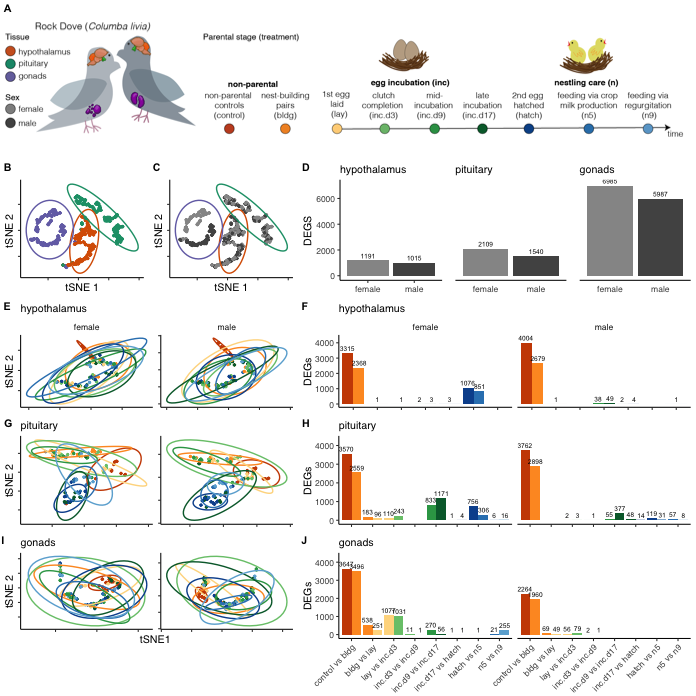
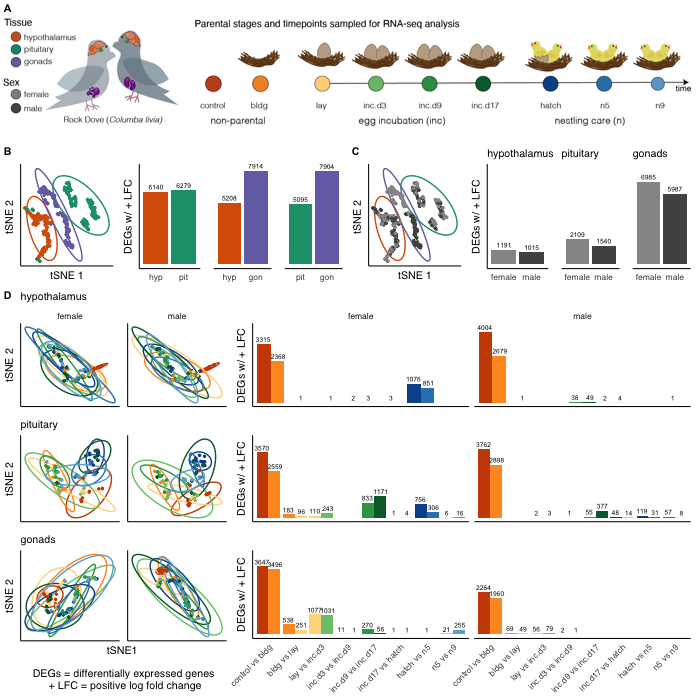
better fig 1

diff --git a/analysis/figure-1.md b/analysis/figure-1.md
@@ -501,8 +501,6 @@ DEGs
     allDEG$comparison <- factor(allDEG$comparison , levels = comparisonlevels)
     allDEG$direction <- factor(allDEG$direction, levels = charlevels)
 
-
-
     hypsex <- read_csv("../results/DEseq2/sex/hypothalamus_female_male_DEGs.csv")
 
     ## Parsed with column specification:
@@ -539,61 +537,137 @@ DEGs
     ##   direction = col_character()
     ## )
 
+    hyppit <- read_csv("../results/DEseq2/tissue/hypothalamus_pituitary_DEGs.csv") 
+
+    ## Parsed with column specification:
+    ## cols(
+    ##   gene = col_character(),
+    ##   padj = col_double(),
+    ##   logpadj = col_double(),
+    ##   lfc = col_double(),
+    ##   direction = col_character()
+    ## )
+
+    hypgon <- read_csv("../results/DEseq2/tissue/hypothalamus_gonad_DEGs.csv")
+
+    ## Parsed with column specification:
+    ## cols(
+    ##   gene = col_character(),
+    ##   padj = col_double(),
+    ##   logpadj = col_double(),
+    ##   lfc = col_double(),
+    ##   direction = col_character()
+    ## )
+
+    pitgon <- read_csv("../results/DEseq2/tissue/pituitary_gonad_DEGs.csv")
+
+    ## Parsed with column specification:
+    ## cols(
+    ##   gene = col_character(),
+    ##   padj = col_double(),
+    ##   logpadj = col_double(),
+    ##   lfc = col_double(),
+    ##   direction = col_character()
+    ## )
+
+    hyppit$direction <- factor(hyppit$direction, levels = c("hypothalamus", "pituitary"))
+    hypgon$direction <- factor(hypgon$direction, levels = c("hypothalamus",  "gonad"))
+    pitgon$direction <- factor(pitgon$direction, levels = c( "pituitary", "gonad"))
+
 make figure
 -----------
 
     a <- png::readPNG("../figures/images/fig_fig1a.png")
     a <- ggdraw() +  draw_image(a, scale = 1)
 
-    b <- plottsneelipse(chartsne, chartsne$tissue, allcolors)   + labs(y = "tSNE 2 ", subtitle = " ")  
-    c <- plottsneelipse(chartsne, chartsne$sex, allcolors)   + labs(y = "tSNE 2 ", subtitle = " ")    
+    b1 <- plottsneelipse(chartsne, chartsne$tissue, allcolors)   + labs(y = "tSNE 2 ", subtitle = " ")  
+    b2 <- sexbarplots(hyppit, 0, 8100) + labs(subtitle = " ", y = "DEGs w/ + LFC") +
+      theme(axis.text.y = element_blank(), axis.ticks = element_blank()) +
+      scale_x_discrete(labels=c("hypothalamus" = "hyp", "pituitary" = "pit" ))
 
-    d1 <- sexbarplots(hypsex, 0, 7100) + labs(y = "DEGS", subtitle = "hypothalamus" )
-    d2 <- sexbarplots(pitsex, 0, 7100) + labs(subtitle = "pituitary" ) + 
-      theme(axis.text.y = element_blank(), axis.line.y = element_blank(), axis.ticks = element_blank())
-    d3 <- sexbarplots(gonsex, 0, 7100) + labs(subtitle = "gonads" ) +
-      theme(axis.text.y = element_blank(), axis.line.y = element_blank(), axis.ticks = element_blank())
+    ## [1] 12419
 
+    b3 <- sexbarplots(hypgon, 0, 8100) + labs(subtitle = " " ) +
+      theme(axis.text.y = element_blank(), axis.line.y = element_blank(), 
+            axis.ticks = element_blank(), axis.title.y = element_blank()) +
+        scale_x_discrete(labels=c("hypothalamus" = "hyp",  "gonad" = "gon"))
 
-    e <- plottsneelipsev2(hyptsne, hyptsne$treatment, allcolors) + 
+    ## [1] 13122
+
+    b4 <- sexbarplots(pitgon, 0, 8100) + labs(subtitle = " " ) +
+      theme(axis.text.y = element_blank(), axis.line.y = element_blank(),  
+            axis.ticks = element_blank(), axis.title.y = element_blank()) +
+        scale_x_discrete(labels=c(  "pituitary" = "pit", "gonad" = "gon"))
+
+    ## [1] 12999
+
+    c1 <- plottsneelipse(chartsne, chartsne$sex, allcolors)   + labs(y = "tSNE 2 ", subtitle = " ")    
+    c2 <- sexbarplots(hypsex, 0, 8100) + labs(y = "DEGs w/ + LFC", subtitle = "hypothalamus" ) +
+      theme(axis.text.y = element_blank(), axis.ticks = element_blank())
+
+    ## [1] 2206
+
+    c3 <- sexbarplots(pitsex, 0, 8100) + labs(subtitle = "pituitary" ) + 
+      theme(axis.text.y = element_blank(), axis.line.y = element_blank(),  
+            axis.ticks = element_blank(), axis.title.y = element_blank())
+
+    ## [1] 3649
+
+    c4 <- sexbarplots(gonsex, 0, 8100) + labs(subtitle = "gonads" ) +
+      theme(axis.text.y = element_blank(), axis.line.y = element_blank(),  
+            axis.ticks = element_blank(), axis.title.y = element_blank())
+
+    ## [1] 12972
+
+    d1 <- plottsneelipsev2(hyptsne, hyptsne$treatment, allcolors) + 
       labs(x = NULL, subtitle = "hypothalamus")  + 
       facet_wrap(~sex, scales = "free")
 
-    g <- plottsneelipsev2(pittsne, pittsne$treatment, allcolors ) + 
+    d3 <- plottsneelipsev2(pittsne, pittsne$treatment, allcolors ) + 
       labs(x = NULL, subtitle = "pituitary") + 
       facet_wrap(~sex, scales = "free") +
       theme(strip.text = element_blank())
 
-    i <- plottsneelipsev2(gontsne, gontsne$treatment, allcolors ) + 
+    d5 <- plottsneelipsev2(gontsne, gontsne$treatment, allcolors ) + 
        facet_wrap(~sex, scales = "free") +
       theme(strip.text = element_blank()) +
-      labs(x = "tSNE1 \n \n \n \n", subtitle = "gonads")
+      labs(x = "tSNE1 \n \n DEGs = differentially expressed genes \n + LFC = positive log fold change", 
+           subtitle = "gonads")
 
 
     # hyp
-    f <- makebargraph("hypothalamus","DEGs", 0, 4300) + 
-      theme(axis.text.x = element_blank(), 
+    d2 <- makebargraph("hypothalamus","DEGs w/ + LFC", 0, 4300) + 
+      theme(axis.ticks = element_blank(),
+            axis.text.x = element_blank(),
+            axis.text.y = element_blank(),
             axis.title.x = element_blank())  +
-      labs(subtitle = "hypothalamus")
+      labs(subtitle = " ")
     # pit
-    h <- makebargraph("pituitary","DEGs", 0, 4300)  +  
-      theme(axis.text.x = element_blank(), 
+    d4 <- makebargraph("pituitary","DEGs w/ + LFC", 0, 4300)  +  
+      theme(axis.ticks = element_blank(),
+            axis.text.x = element_blank(), 
+            axis.text.y = element_blank(),
             axis.title.x = element_blank(), 
             strip.text.x = element_blank())  +
-      labs(subtitle = "pituitary")
+      labs(subtitle = " ")
     # gon
-    j <- makebargraph("gonad","DEGs", 0, 4300) +  
-      theme(strip.text.x = element_blank()) +
+    d6 <- makebargraph("gonad","DEGs w/ + LFC", 0, 4300) +  
+      theme(axis.ticks = element_blank(),
+            axis.text.y = element_blank(),
+            strip.text.x = element_blank()) +
       scale_x_discrete(labels = comparisonlabels)+
-      labs(subtitle = "gonads")
+      labs(subtitle = " ")
 
-    bcd <- plot_grid(b,c,d1,d2,d3, nrow = 1, labels = c("B", "C", "D"), 
-                       label_size = 8, rel_widths = c(1.2,1.2,1.2,1,1))
 
-    etoj <- plot_grid(e,f,g,h,i,j, ncol = 2, rel_heights = c(1,1,1.4), rel_widths = c(2.4,3.2),
-                      labels = c("E", "F", "G", "H", "I", "J"), label_size = 8)
+    bc <- plot_grid(b1,b2,b3,b4, c1,c2,c3,c4, nrow = 1, rel_widths = c(1.5,1.1,0.9,0.9,1.5,1.1,0.9,0.9),
+                    labels = c("B", "", "", "", "C"), label_size = 8)
 
-    fig1 <- plot_grid(a, bcd, etoj, nrow = 3, rel_heights = c(0.8,0.7,2),
+    d <- plot_grid(d1,d2,d3,d4,d5,d6, ncol = 2, rel_heights = c(1,0.9,1.3), rel_widths = c(1,2),
+                      labels = c("D"), label_size = 8)
+
+    ## Warning in MASS::cov.trob(data[, vars]): Probable convergence failure
+
+    fig1 <- plot_grid(a,bc, d, nrow = 3, rel_heights = c(0.7,0.7,2),
                       labels = c("A"), label_size = 8)
     fig1
 
